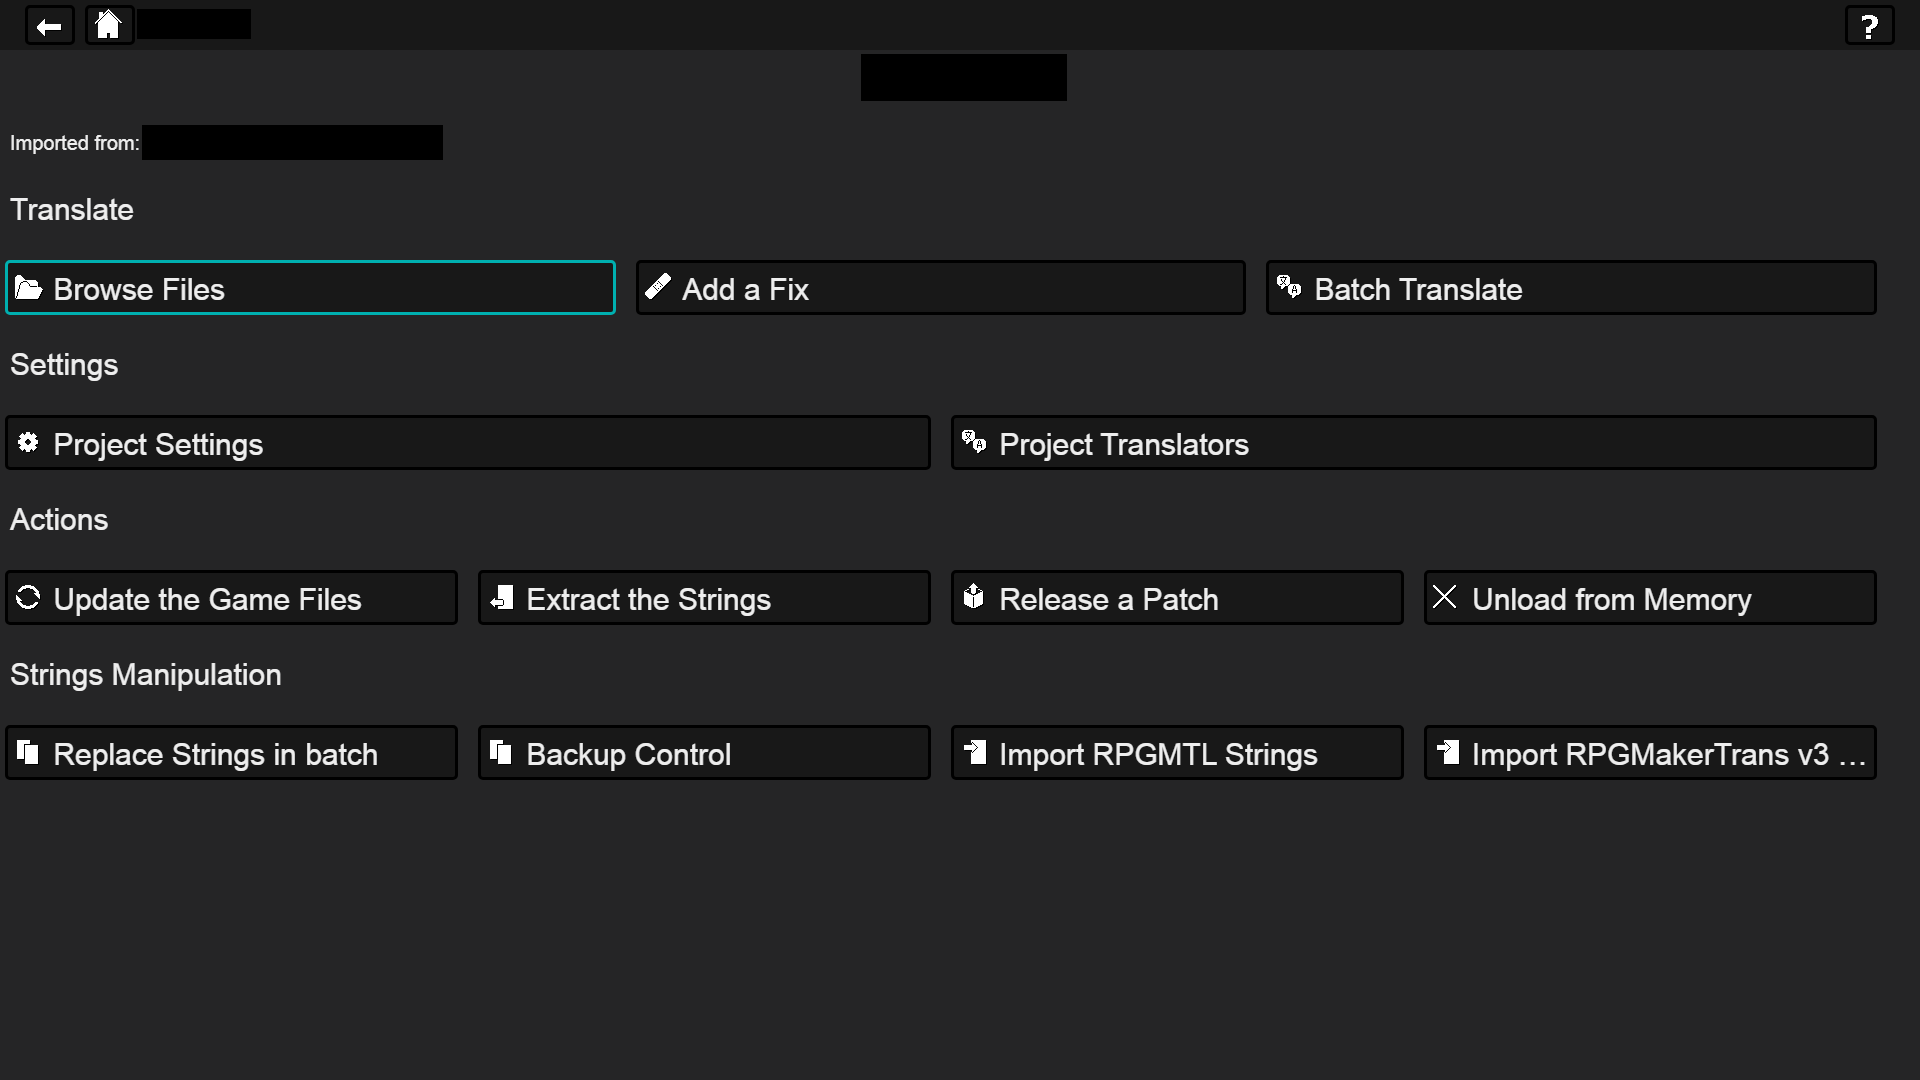
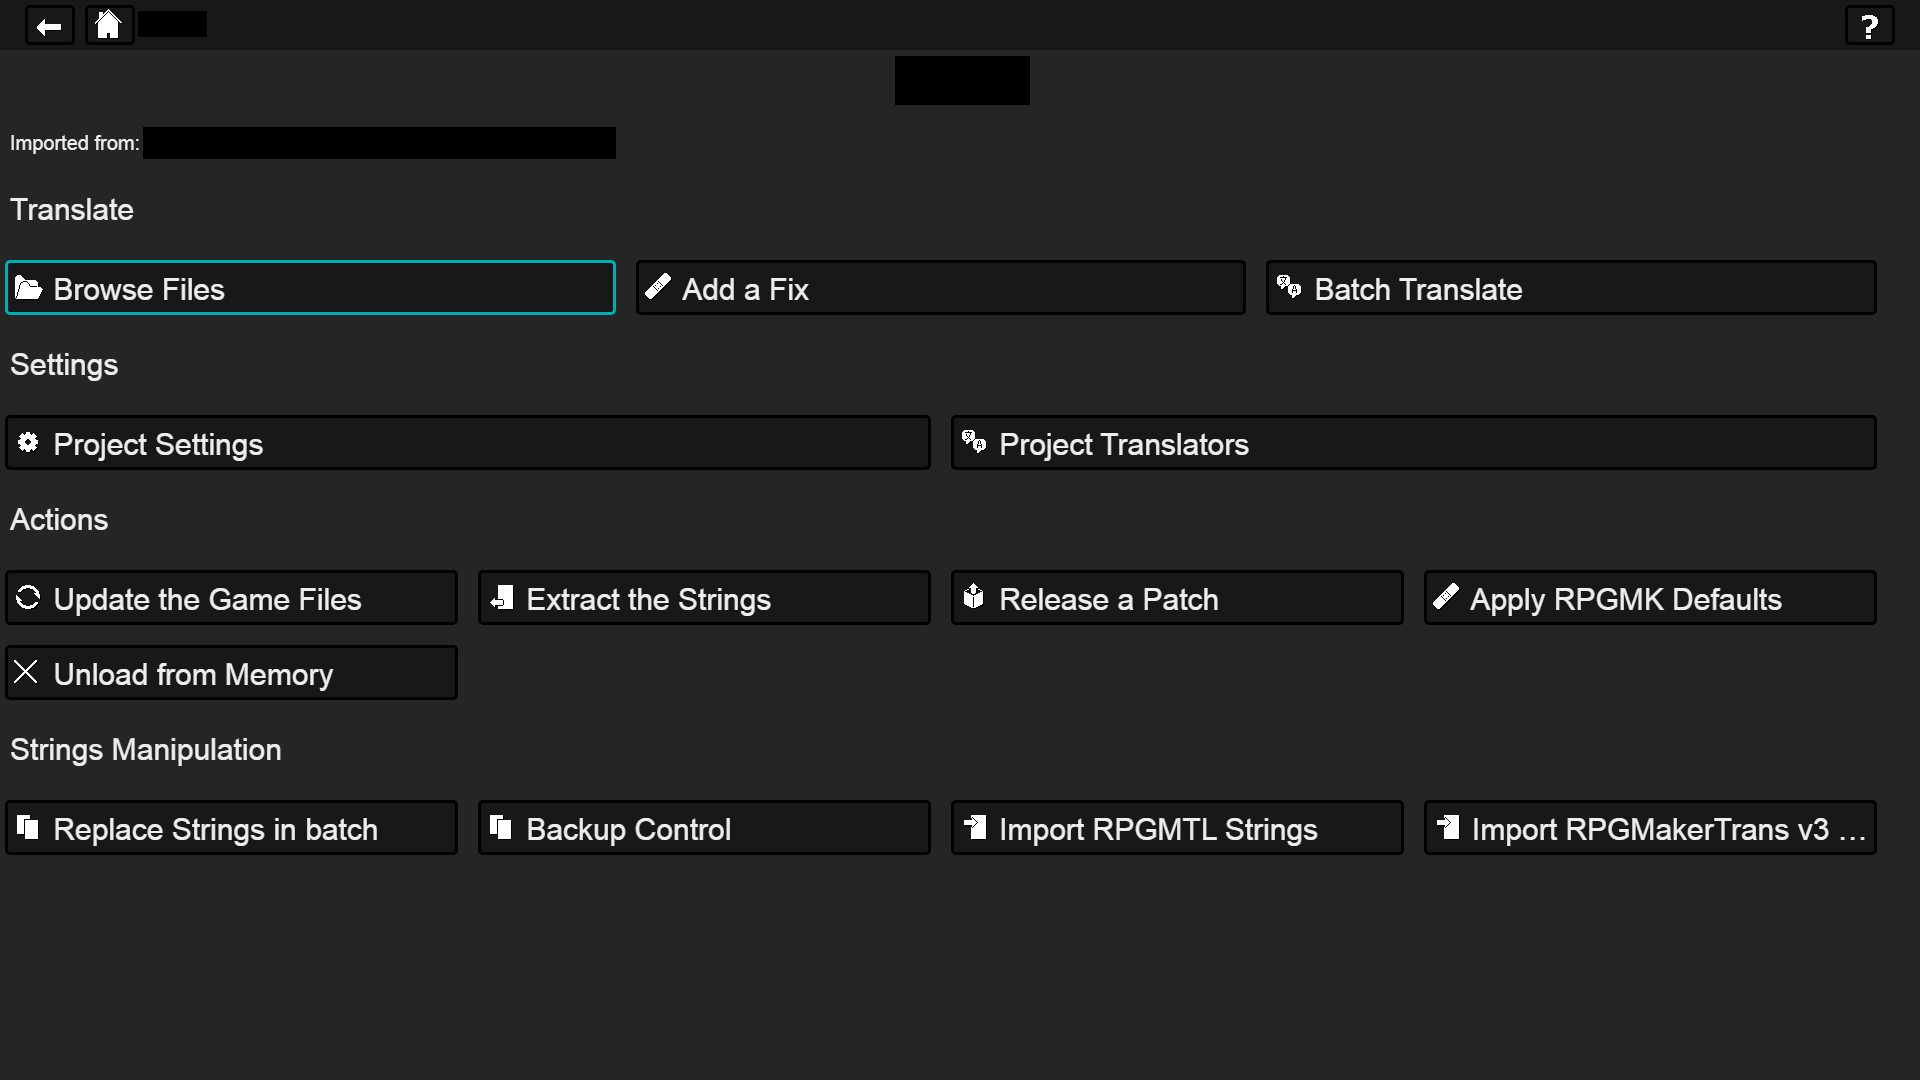
Added a button for apply_default()

diff --git a/assets/ui/script.js b/assets/ui/script.js
@@ -1680,6 +1680,7 @@ function project_menu(data = null)
 					<li><b>Update the Game Files</b> if the Game got updated or if you need to re-copy the files.</li>\
 					<li><b>Extract the Strings</b> if you need to extract them from Game files.</li>\
 					<li><b>Release a Patch</b> to create a copy of Game files with your translated strings. They will be found in the <b>release</b> folder.</li>\
+					<li><b>Apply RPGMK Defaults</b> to set some default translations and file settings used for RPG Maker games.</li>\
 					<li><b>Unload from Memory</b> if you must do modifications on the local files, using external scripts or whatever.</li>\
 				</ul>\
 				<ul>\
@@ -1712,7 +1713,7 @@ function project_menu(data = null)
 		add_to(fragment, "div", {cls:["title", "left", "smalltext"]}).innerHTML = "Imported from: " + project.config["path"];
 		let grid = null;
 		// translate options
-		if(project.config.files)
+		if(project.config.version)
 		{
 			add_to(fragment, "div", {cls:["title", "left"]}).innerHTML = "Translate";
 			grid = add_to(fragment, "div", {cls:["grid"]});
@@ -1752,17 +1753,20 @@ function project_menu(data = null)
 				post("/api/extract", project_menu, go_main, {name:project.name});
 			}
 		});
-		if(project.config.files)
+		if(project.config.version)
 		{
 			add_grid_cell(grid, '<img src="assets/images/release.png"> Release a Patch', function(){
 				set_loading_text("The patch is being generated in the release folder...");
 				post("/api/release", project_menu, null, {name:project.name});
 			});
+			add_grid_cell(grid, '<img src="assets/images/bandaid.png"> Apply RPGMK Defaults', function(){
+				post("/api/apply_project_defaults", project_menu, go_main, {name:project.name});
+			});
 		}
 		add_grid_cell(grid, '<img src="assets/images/cancel.png"> Unload from Memory', function(){
 			post("/api/unload", go_main, null, {name:project.name});
 		});
-		if(project.config.files)
+		if(project.config.version)
 		{
 			add_to(fragment, "div", {cls:["title", "left"]}).innerHTML = "Strings Manipulation";
 			grid = add_to(fragment, "div", {cls:["grid"]});

diff --git a/rpgmtl.py b/rpgmtl.py
@@ -115,6 +115,7 @@ class RPGMTL():
                 web.post('/api/search_string', self.search_string), # Search a string
                 web.post('/api/local_path', self.local_path), # Browse local files
                 web.post('/api/replace_strings', self.replace_strings), # Browse local files
+                web.post('/api/apply_project_defaults', self.apply_project_defaults), # Apply Project defaults
         ])
         # variables
         self.port : int = 8000 # Port to start the server with
@@ -2290,6 +2291,19 @@ class RPGMTL():
             if count > 0:
                 self.modified[name] = True
             return web.json_response({"result":"ok", "data":{"config":self.projects[name], "name":name, "count":count}, "message":"{} strings have been modified".format(count)})
+
+    # /api/apply_project_defaults
+    async def apply_project_defaults(self : RPGMTL, request : web.Request) -> web.Response:
+        payload = await request.json()
+        name = payload.get('name', None)
+        if name is None:
+            return web.json_response({"result":"bad", "message":"Bad request, missing 'name' parameter"}, status=400)
+        else:
+            self.load_strings(name) # load strings.json
+            self.apply_default(name)
+            self.start_compute_translated(name)
+            return web.json_response({"result":"ok", "data":{"config":self.projects[name], "name":name}, "message":"Applied default RPGM settings and translations"})
+            
 
 if __name__ == "__main__":
     RPGMTL().run()

diff --git a/readme/api.md b/readme/api.md
@@ -244,6 +244,12 @@ Return in data: 'path', list of 'folders', list of matching 'files'
 Payload: project 'name', 'src' string to replace, 'dst' string to replace with
 Return in data: project 'name', project 'config', 'count' modified strings
 ```
+
+```
+/api/apply_project_defaults
+Payload: project 'name'
+Return in data: project 'name', project 'config'
+```
   
 ## Introduction  
   
